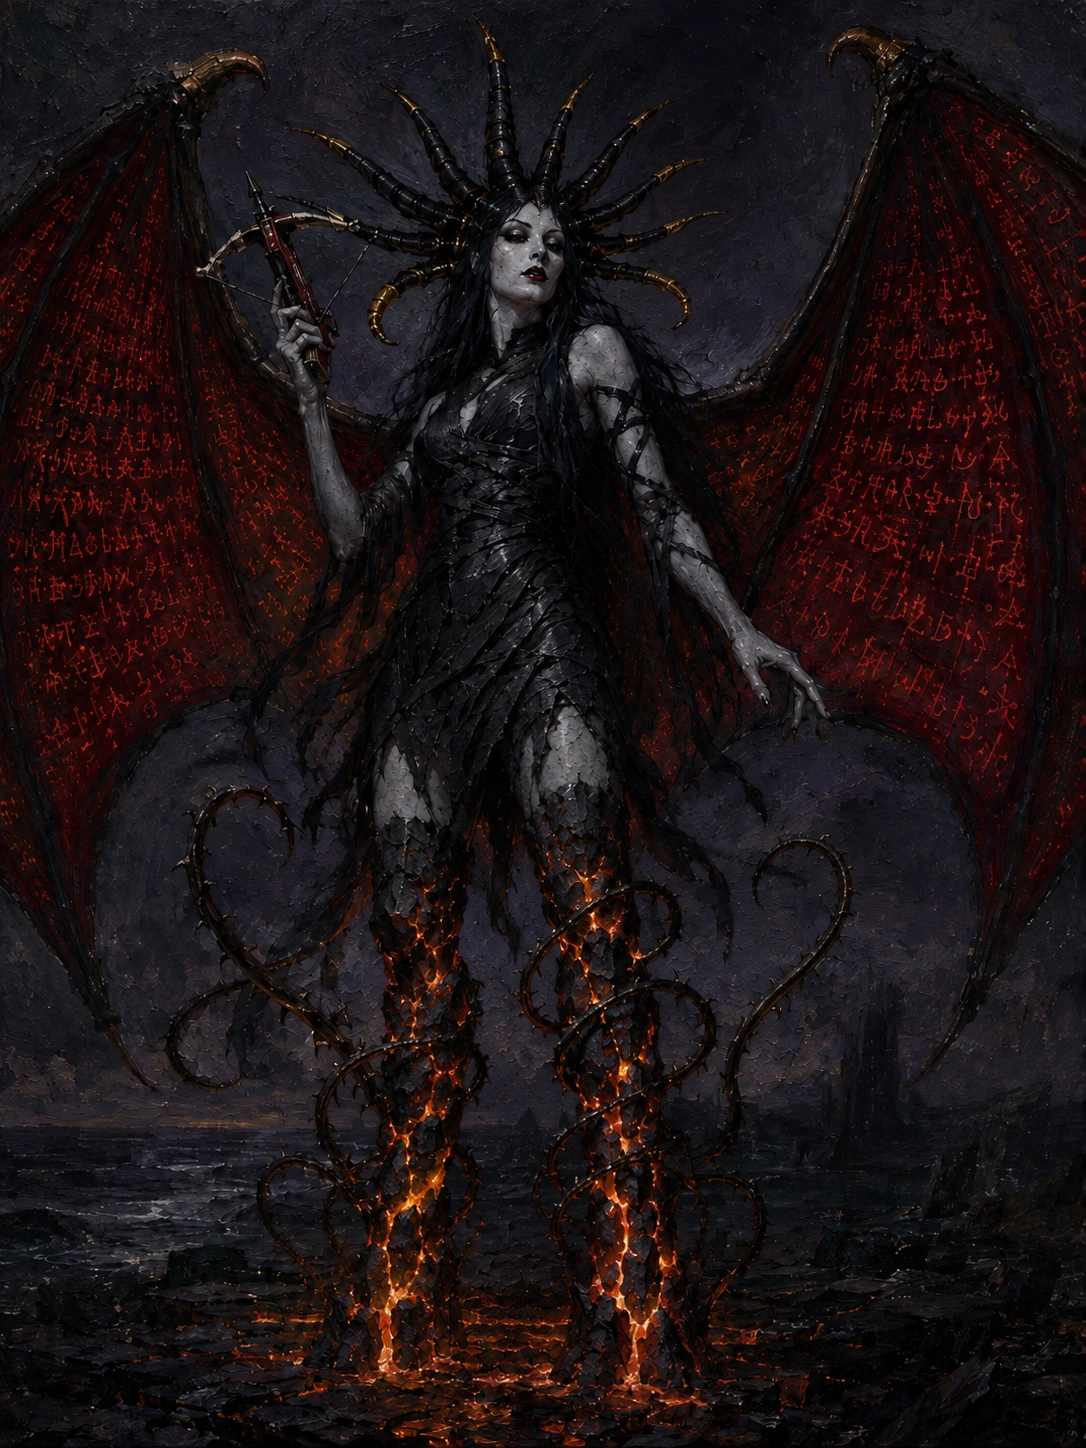
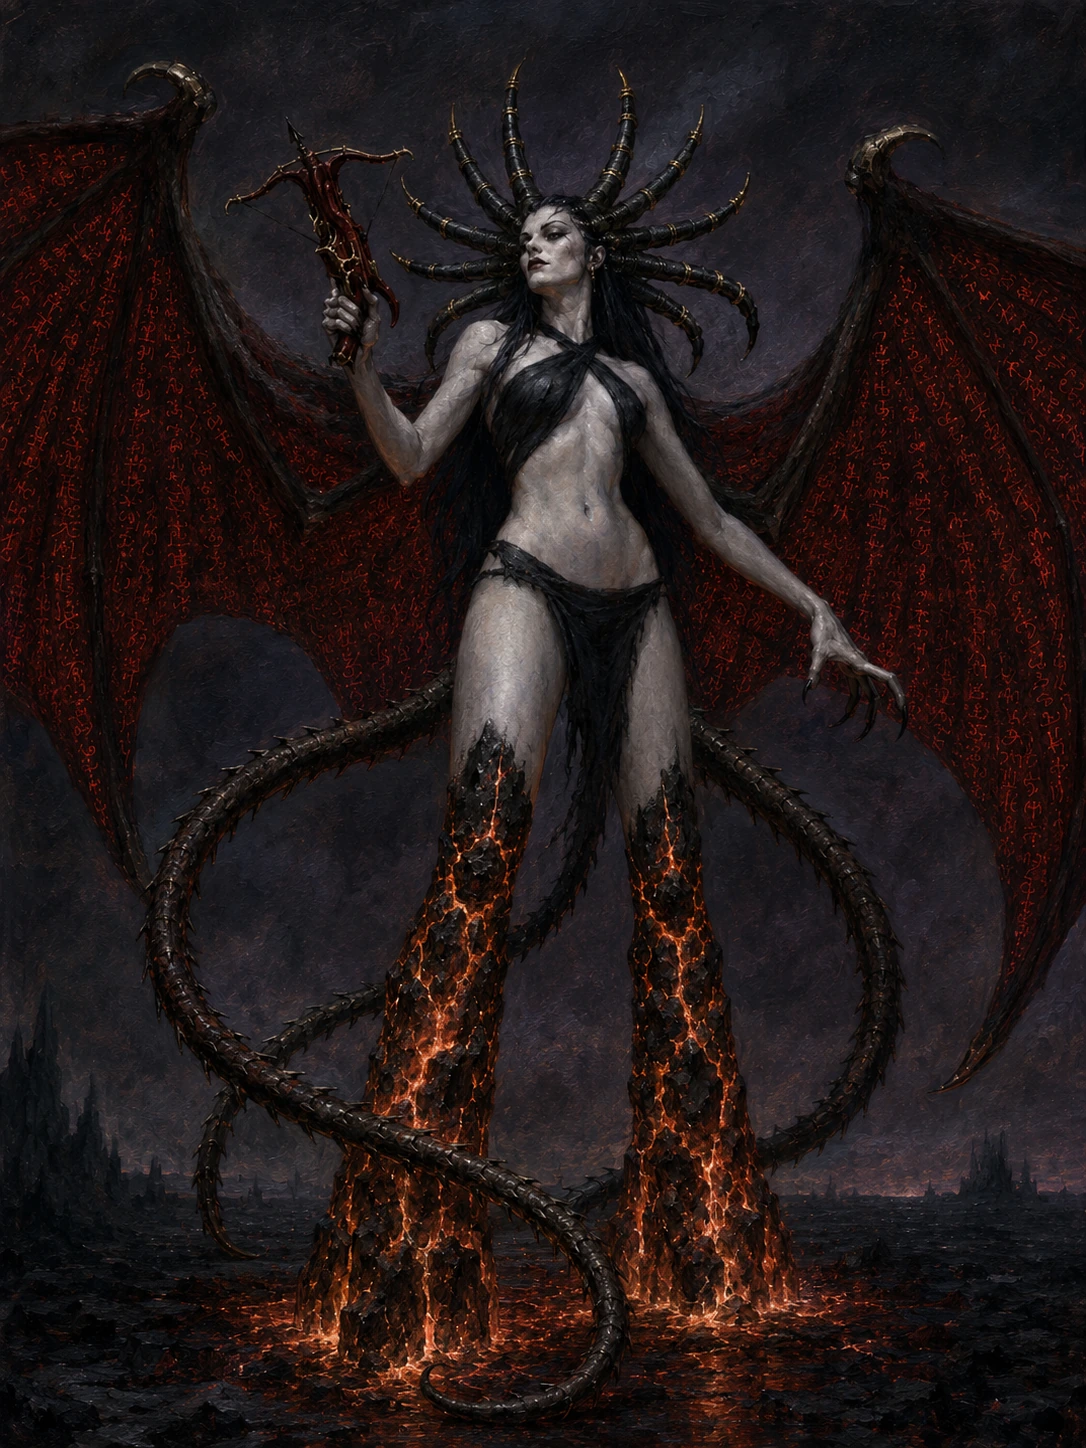
Re-roll Nocticula with her three tails and her published costume
She is the patron of succubi and the module art is deliberately scant;
the first reference read as a covered gown, and mistook her three barbed
tails for tendrils rooted in the ground. Registry row records both
failure modes and the guardrail that governs generating her.

diff --git a/monsters/BESTIARY.md b/monsters/BESTIARY.md
@@ -24,4 +24,4 @@ requires. Such rows are marked *(an individual)*.
 | **Neh-thalggu** ("brain collector") | [`neh-thalggu.webp`](neh-thalggu.webp) | Large spider-like aberration. Bulbous stone-grey pitted head-mass atop a broader rust-red chitinous abdomen; eight long segmented rust-red legs, each joint marked by a small glinting pale-green gem-like growth, ending in curved dark claws. A tight cluster of swollen translucent pale blue-white bulbous sacs sits on top of the head-mass, glowing faintly — the harvested brains. A ring of small pale green-white eye-like beads circles the base of the head at the mouth. Hanging from beneath the head is a mass of thin, dexterous, reddish tentacles — **not a single rigid proboscis** — dextrous enough to grip and manipulate held objects; render at least one tentacle actually holding something when the scene calls for it. Cold pale-blue light from the brain-sac cluster is its natural single light source in a dim scene. |
 | **Kalavakus demon** | [`kalavakus.webp`](kalavakus.webp) | Large bipedal demon. Deep indigo-purple, muscular, corded flesh with a pale tan-cream patch of hide across the chest and belly. Digitigrade, reverse-jointed goat-like hind legs ending in broad clawed feet. A cluster of at least four or five long curling ram-like horns of different lengths sweeps back from the crown of the head, framing a heavy brow; wide flat demonic snout, mouth full of crooked sharp teeth. Both hands end in three or four long curved black claws; muscular shoulders and forearms. A long thick tail, ridged with small bony spikes or a club-like knot near the tip. Wears nothing but a simple worked-leather belt or loincloth — no other clothing or armor. |
 | **Coloxus demon** | [`coloxus.webp`](coloxus.webp) | Man-sized humanoid demon with a huge fly's head — bulbous multifaceted compound eyes taking up most of the skull, coarse bristling hair-like spines around the crown and jaw, a long downward-curving proboscis-like snout, small mandible-like mouthparts. Two pairs of veined, translucent insect wings fold down its back. Wears an ornate high-collared scholar's coat in tarnished oxblood red edged with dulled gold scrollwork, over a cream ivory undershirt with full sleeves, a round medallion at the throat, dark leather gloves and knee boots. **One hand is insectoid, clawed and chitinous; the other is human-gloved** — keep that asymmetry. The insectoid hand holds an ornate ceremonial rod tipped with a glinting gem; the gloved hand holds a long unrolled parchment scroll, its loose end sealed with a wax seal on a cord. A creature of paperwork and bargains — render it holding both scroll and rod whenever the scene allows. |
-| **Nocticula**, demon lord of the Midnight Isles *(an individual — see the note above)* | [`nocticula.webp`](nocticula.webp) | Tall, slender, regal demoness, human-shaped from the thighs up. Cold grey-white skin, a long sharp beautiful face, black eyes, dark oxblood lips, long straight blue-black hair past her shoulders. **The crown of horns is the most recognisable thing about her** — a radiating fan of roughly ten long tapering glossy black horns sweeping outward and back from brow and temples like a sunburst diadem, each banded and tipped with dull gold, the two outermost hooking downward. Enormous outspread bat wings, far wider than her body, the membranes deep crimson-oxblood and covered **edge to edge in close rows of glowing red Abyssal script** burning through the skin of the wing like embers seen through cloth; wing bones and leading edges are tarnished bronze-brown and end in hooked claws. She wears a close-fitting garment of black shadow-silk — narrow jagged ribbon-like panels and straps ending in torn banner edges, matte black, **no jewellery and no armour**. In one raised hand, a small ornate **hand crossbow** of dark wine-red lacquered wood and bone, recurved limbs, a black bolt already nocked. From mid-thigh down her legs are **blackened volcanic stone** — a rough basalt crust split by glowing orange-white molten fissures, tapering to blocky columnar feet, molten light pooling on the ground beneath her. Several long dark-brown **barbed tendrils**, like thorned vines, coil up around each stone leg and lash outward into hooked tips. Her own lava-stone legs are her natural single light source in a dark scene. **Watch the lower body** — asked for loosely, the two stone legs fuse into one molten column rising out of a vent, or vanish under a floor-length gown; say *two separate, distinct legs with a visible gap between them*, and put `fused or merged legs, a single column instead of legs, a floor-length skirt covering the legs` in the `Avoid:` line. |
+| **Nocticula**, demon lord of the Midnight Isles *(an individual — see the note above)* | [`nocticula.webp`](nocticula.webp) | Tall, slender, long-limbed and imperious demoness, human-shaped from the thighs up. Cold grey-white skin, a long sharp beautiful face, black eyes, dark oxblood lips, long straight blue-black hair past her shoulders. **The crown of horns is the most recognisable thing about her** — a radiating fan of long tapering glossy black horns sweeping outward and back from brow and temples like a sunburst diadem, each banded and tipped with dull gold, the outermost hooking downward. Enormous outspread bat wings, far wider than her body, the membranes deep crimson-oxblood and covered **edge to edge in close rows of glowing red Abyssal script** burning through the skin of the wing like embers seen through cloth; wing bones and leading edges are tarnished bronze-brown and end in hooked claws. **She is the patron of succubi and her costume is deliberately scant**, as published: a minimal matte-black shadow-silk halter and a low black wrap at the hips, every edge torn into ragged banner points, leaving shoulders, arms, midriff, waist and the full length of her thighs bare. No jewellery, no armour, no gown or skirt. In one raised hand, a small ornate **hand crossbow** of dark wine-red lacquered wood and bone, recurved limbs, a black bolt already nocked; the other arm reaches out and down, fingers spread and clawed. From mid-thigh down her legs are **blackened volcanic stone** — a rough basalt crust split by glowing orange-white molten fissures, tapering to blocky columnar feet, molten light pooling on the ground beneath her. **THREE long prehensile TAILS spring from the base of her spine, behind her** — dark chocolate-brown and black, segmented and ridged, studded their whole length with backward-curving thorns, tapering to hooked tips; they sweep out and down on either side of her stone legs and one curls forward across the foreground. Her own lava-stone legs are her natural single light source in a dark scene. **Two things go wrong if you ask loosely.** The tails come back as vines or tentacles rooted in the ground rather than tails on her body — say *three tails springing from the base of her spine behind her*, and put `vines or tendrils growing out of the ground, only one tail, no tail` in `Avoid:`. And the two stone legs fuse into a single molten column, or vanish under a floor-length gown — say *two separate, distinct legs with a visible gap between them*, with `fused or merged legs, a single column instead of legs, a floor-length skirt covering the legs` in `Avoid:`. **Note on generating her:** ChatGPT's image tool refuses a strap-only chest garment outright (an explicit nudity/sexual-content guardrail, no image returned). A fitted halter panel with the rest of the costume left scant does pass, and is what this reference is. *(Aug 2026.)* |
